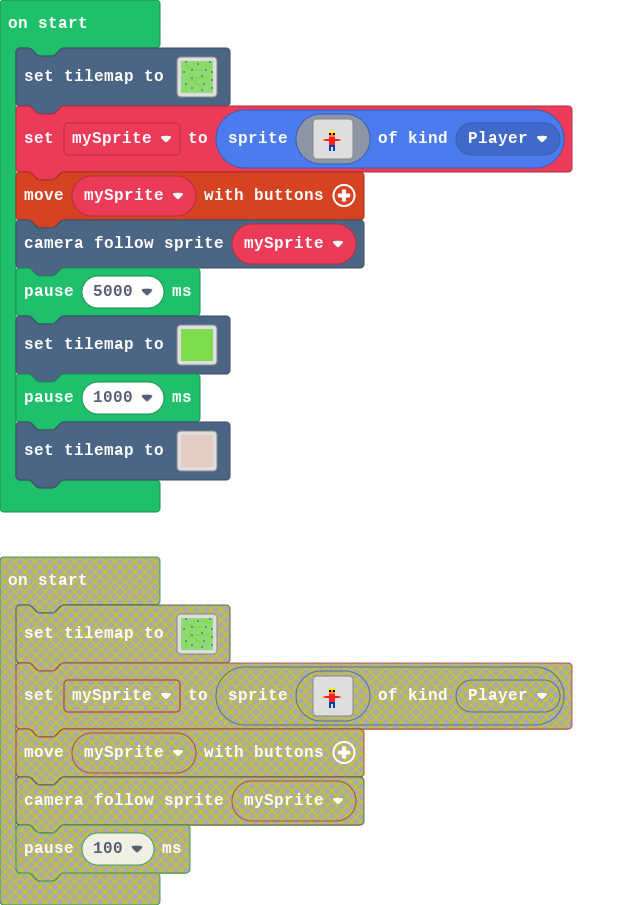
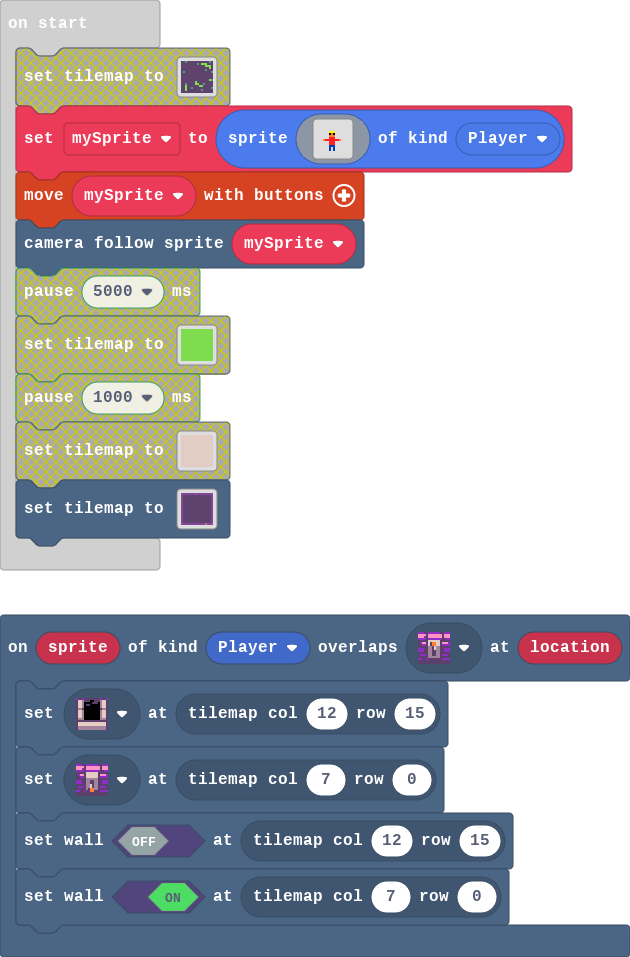
Update main.blocks, main.ts, tilemap.g.jres, tilemap.g.ts

diff --git a/tilemap.g.ts b/tilemap.g.ts
@@ -2,28 +2,13 @@
 namespace myTiles {
     //% fixedInstance jres blockIdentity=images._tile
     export const transparency16 = image.ofBuffer(hex``);
+    //% fixedInstance jres blockIdentity=images._tile
+    export const tile1 = image.ofBuffer(hex``);
+    //% fixedInstance jres blockIdentity=images._tile
+    export const tile2 = image.ofBuffer(hex``);
 
     helpers._registerFactory("tilemap", function(name: string) {
         switch(helpers.stringTrim(name)) {
-            case "level1":
-            case "level1":return tiles.createTilemap(hex`1000100001010401010101010101010101010401010101010101030104010303030101010101020201010301010101010303030101010102020201010101010101010301010101010104020202020201040101010104010101010101010101010101010401010101020101010101010101010101010101010201010101010401010101010101010102040102020202020202010101010101020202010101010101010204010101010101010201010101010101010101040101010102020101040101010101010301010101010102020101010101010103010104010101010101010101040101030101010101010104010101010101010101010101010101010101010101`, img`
-. . 2 . . . . . . . . . . . 2 . 
-. . . . . . . . 2 . . . . . . . 
-. . . . . . . . . . . . . . . . 
-. . . . . . . . . . . . . . . . 
-. . . . . 2 . . . . . . 2 . . . 
-. 2 . . . . . . . . . . . . . 2 
-. . . . . . . . . . . . . . . . 
-. . . . . . . . . . 2 . . . . . 
-. . . . . 2 . . . . . . . . . . 
-. . . . . . . . . . . . . . . 2 
-. . . . . . . . . . . . . . . . 
-. . 2 . . . . . . . . 2 . . . . 
-. . . . . . . . . . . . . . . . 
-. . . . . 2 . . . . . . . . . 2 
-. . . . . . . . . . 2 . . . . . 
-. . . . . . . . . . . . . . . . 
-`, [myTiles.transparency16,sprites.castle.tileGrass2,sprites.castle.tileGrass1,sprites.castle.tileGrass3,sprites.builtin.forestTiles0], TileScale.Sixteen);
             case "level2":
             case "level2":return tiles.createTilemap(hex`1000100001010101010101010101010101010101010101010101010101010101010101010101010101010101010101010101010101010101010101010101010101010101010101010101010101010101010101010101010101010101010101010101010101010101010101010101010101010101010101010101010101010101010101010101010101010101010101010101010101010101010101010101010101010101010101010101010101010101010101010101010101010101010101010101010101010101010101010101010101010101010101010101010101010101010101010101010101010101010101010101010101010101010101010101010101010101`, img`
 . . . . . . . . . . . . . . . . 
@@ -81,6 +66,82 @@ namespace myTiles {
 . . . . . . . . . . . . . . . . 
 . . . . . . . . . . . . . . . . 
 `, [myTiles.transparency16,sprites.castle.tilePath5], TileScale.Sixteen);
+            case "level1":
+            case "level1":return tiles.createTilemap(hex`1000100004040304040404040404040404040304040404040404040403040202020404040404040404040404040404040202020404040404040404040404040404040204040404040404040404040404030404040403040404040404040404040404040304040404040404040404040404040404040404040404040404040404040404040404040404040404040404040404040404040404040404040404040404040103040404040404040104040404040404040404030404040401010404030404040404040204040404040401010404040404040402040403040404040404040404030404020404040404040403040404040404040404040404040404040404040404`, img`
+. . 2 . . . . . . . . . . . 2 . 
+. . . . . . . . 2 . . . . . . . 
+. . . . . . . . . . . . . . . . 
+. . . . . . . . . . . . . . . . 
+. . . . . 2 . . . . . . 2 . . . 
+. 2 . . . . . . . . . . . . . 2 
+. . . . . . . . . . . . . . . . 
+. . . . . . . . . . 2 . . . . . 
+. . . . . 2 . . . . . . . . . . 
+. . . . . . . . . . . . . . . 2 
+. . . . . . . . . . . . . . . . 
+. . 2 . . . . . . . . 2 . . . . 
+. . . . . . . . . . . . . . . . 
+. . . . . 2 . . . . . . . . . 2 
+. . . . . . . . . . 2 . . . . . 
+. . . . . . . . . . . . . . . . 
+`, [myTiles.transparency16,sprites.castle.tileGrass1,sprites.castle.tileGrass3,sprites.builtin.forestTiles0,sprites.dungeon.darkGroundCenter], TileScale.Sixteen);
+            case "level6":
+            case "level6":return tiles.createTilemap(hex`1000100000000000000000000000000000000000000000000000000000000000000000000000000000000000000000000000000000000000000000000000000000000000000000000000000000000000000000000000000000000000000000000000000000000000000000000000000000000000000000000000000000000000000000000000000000000000000000000000000000000000000000000000000000000000000000000000000000000000000000000000000000000000000000000000000000000000000000000000000000000000000000000000000000000000000000000000000000000000000000000000000000000000000000000000000000000000`, img`
+. . . . . . . . . . . . . . . . 
+. . . . . . . . . . . . . . . . 
+. . . . . . . . . . . . . . . . 
+. . . . . . . . . . . . . . . . 
+. . . . . . . . . . . . . . . . 
+. . . . . . . . . . . . . . . . 
+. . . . . . . . . . . . . . . . 
+. . . . . . . . . . . . . . . . 
+. . . . . . . . . . . . . . . . 
+. . . . . . . . . . . . . . . . 
+. . . . . . . . . . . . . . . . 
+. . . . . . . . . . . . . . . . 
+. . . . . . . . . . . . . . . . 
+. . . . . . . . . . . . . . . . 
+. . . . . . . . . . . . . . . . 
+. . . . . . . . . . . . . . . . 
+`, [myTiles.transparency16], TileScale.Sixteen);
+            case "level7":
+            case "level7":return tiles.createTilemap(hex`1000100001020000000000000000000000000000000000000000000000000000000000000000000000000000000000000000000000000000000000000000000000000000000000000000000000000000000000000000000000000000000000000000000000000000000000000000000000000000000000000000000000000000000000000000000000000000000000000000000000000000000000000000000000000000000000000000000000000000000000000000000000000000000000000000000000000000000000000000000000000000000000000000000000000000000000000000000000000000000000000000000000000000000000000000000000000000`, img`
+. . . . . . . . . . . . . . . . 
+. . . . . . . . . . . . . . . . 
+. . . . . . . . . . . . . . . . 
+. . . . . . . . . . . . . . . . 
+. . . . . . . . . . . . . . . . 
+. . . . . . . . . . . . . . . . 
+. . . . . . . . . . . . . . . . 
+. . . . . . . . . . . . . . . . 
+. . . . . . . . . . . . . . . . 
+. . . . . . . . . . . . . . . . 
+. . . . . . . . . . . . . . . . 
+. . . . . . . . . . . . . . . . 
+. . . . . . . . . . . . . . . . 
+. . . . . . . . . . . . . . . . 
+. . . . . . . . . . . . . . . . 
+. . . . . . . . . . . . . . . . 
+`, [myTiles.transparency16,sprites.dungeon.doorOpenSouth,sprites.dungeon.purpleSwitchDown], TileScale.Sixteen);
+            case "level5":
[1 lines of base64/hex data omitted]
+2 2 2 2 2 2 2 . 2 2 2 2 2 2 2 2 
+2 . . . . . . . . . . . . . . 2 
+2 . . . . . . . . . . . . . . 2 
+2 . . . . . . . . . . . . . . 2 
+2 . . . . . . . . . . . . . . 2 
+2 . . . . . . . . . . . . . . 2 
+2 . . . . . . . . . . . . . . 2 
+2 . . . . . . . . . . . . . . 2 
+2 . . . . . . . . . . . . . . 2 
+2 . . . . . . . . . . . . . . 2 
+2 . . . . . . . . . . . . . . 2 
+2 . . . . . . . . . . . . . . 2 
+2 . . . . . . . . . . . . . . 2 
+2 . . . . . . . . . . . . . . 2 
+2 . . . . . . . . . . . . . . 2 
+2 2 2 2 2 2 2 2 2 2 2 2 2 2 2 2 
+`, [myTiles.transparency16,sprites.dungeon.purpleOuterEast0,sprites.dungeon.darkGroundNorthWest1,sprites.dungeon.purpleOuterWest0,sprites.dungeon.purpleOuterNorth1,sprites.dungeon.purpleOuterSouth1,sprites.dungeon.purpleOuterSouthWest,sprites.dungeon.purpleOuterNorthEast,sprites.dungeon.purpleOuterNorthWest,sprites.dungeon.purpleOuterSouthEast,sprites.dungeon.doorOpenWest,sprites.dungeon.doorLockedSouth,sprites.dungeon.purpleSwitchUp], TileScale.Sixteen);
         }
         return null;
     })
@@ -88,6 +149,10 @@ namespace myTiles {
     helpers._registerFactory("tile", function(name: string) {
         switch(helpers.stringTrim(name)) {
             case "transparency16":return transparency16;
+            case "myTile":
+            case "tile1":return tile1;
+            case "myTile0":
+            case "tile2":return tile2;
         }
         return null;
     })

diff --git a/main.ts b/main.ts
@@ -1,4 +1,10 @@
-tiles.setTilemap(tilemap`level1`)
+scene.onOverlapTile(SpriteKind.Player, sprites.dungeon.purpleSwitchUp, function (sprite, location) {
+    tiles.setTileAt(tiles.getTileLocation(12, 15), sprites.dungeon.doorOpenSouth)
+    tiles.setTileAt(tiles.getTileLocation(7, 0), sprites.dungeon.purpleSwitchDown)
+    tiles.setWallAt(tiles.getTileLocation(12, 15), false)
+    tiles.setWallAt(tiles.getTileLocation(7, 0), true)
+})
+tiles.setTilemap(tilemap`level5`)
 let mySprite = sprites.create(img`
     . . . . . . . . . . . . . . . . 
     . . . . . . . . . . . . . . . . 
@@ -19,7 +25,3 @@ let mySprite = sprites.create(img`
     `, SpriteKind.Player)
 controller.moveSprite(mySprite)
 scene.cameraFollowSprite(mySprite)
-pause(5000)
-tiles.setTilemap(tilemap`level2`)
-pause(1000)
-tiles.setTilemap(tilemap`level4`)
